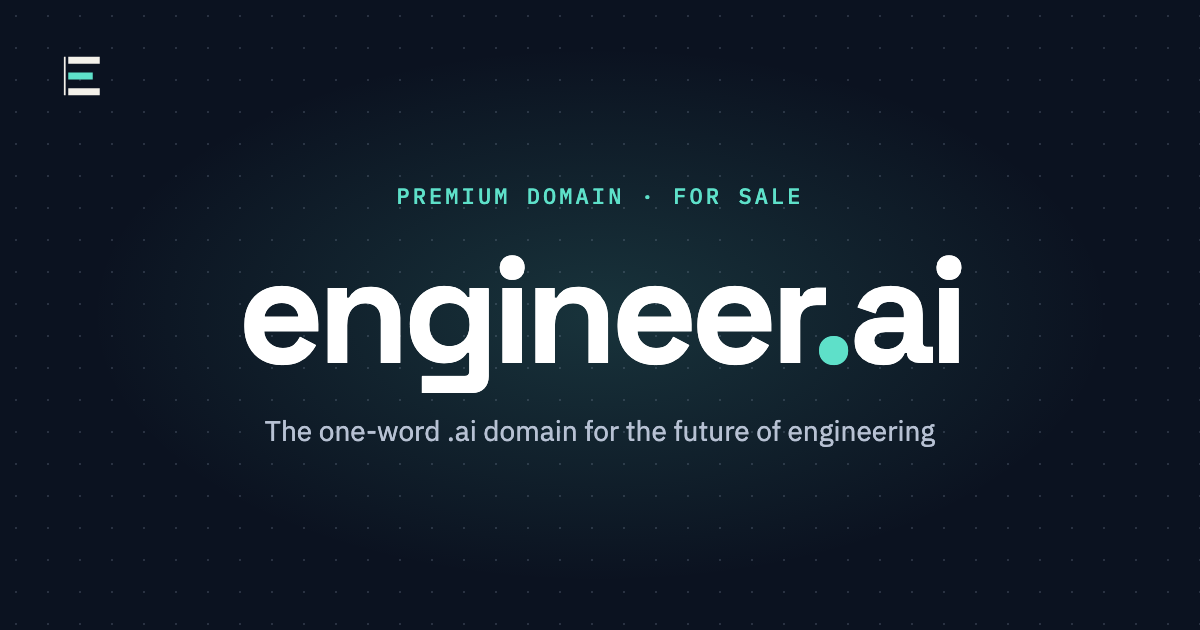
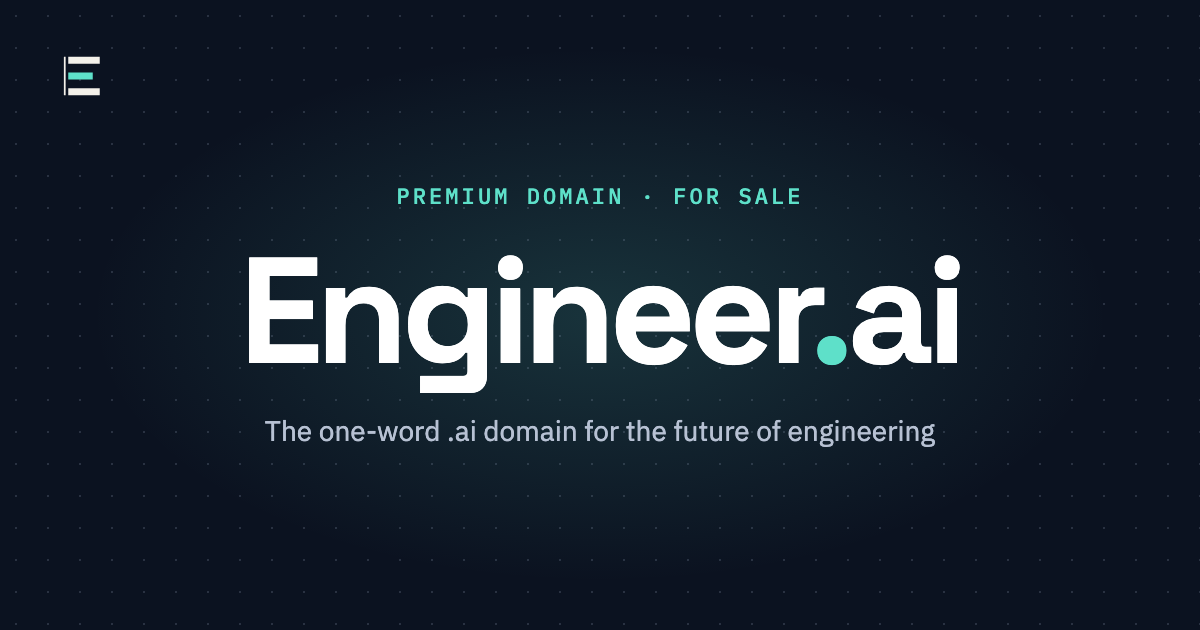
Capitalise the name as Engineer.ai
Applies to all visible text, wordmarks, metadata, structured data,
llms.txt, README and the share image. URLs stay lowercase.

diff --git a/index.html b/index.html
@@ -3,23 +3,23 @@
 <head>
 <meta charset="utf-8">
 <meta name="viewport" content="width=device-width, initial-scale=1">
-<title>engineer.ai is for sale | Premium one-word .ai domain</title>
-<meta name="description" content="engineer.ai is a premium one-word .ai domain for sale. Ideal for AI software engineers, engineering AI, hiring and education. Contact us to make an offer.">
+<title>Engineer.ai is for sale | Premium one-word .ai domain</title>
+<meta name="description" content="Engineer.ai is a premium one-word .ai domain for sale. Ideal for AI software engineers, engineering AI, hiring and education. Contact us to make an offer.">
 <link rel="canonical" href="https://engineer.ai/">
 <meta name="robots" content="index, follow, max-image-preview:large">
 <meta name="theme-color" content="#0B1220">
 
 <meta property="og:type" content="website">
-<meta property="og:site_name" content="engineer.ai">
+<meta property="og:site_name" content="Engineer.ai">
 <meta property="og:url" content="https://engineer.ai/">
-<meta property="og:title" content="engineer.ai is for sale | Premium one-word .ai domain">
+<meta property="og:title" content="Engineer.ai is for sale | Premium one-word .ai domain">
 <meta property="og:description" content="The one-word .ai domain for the future of engineering. Contact us to make an offer.">
 <meta property="og:image" content="https://engineer.ai/og-image.png">
 <meta property="og:image:width" content="1200">
 <meta property="og:image:height" content="630">
-<meta property="og:image:alt" content="engineer.ai, premium domain for sale">
+<meta property="og:image:alt" content="Engineer.ai, premium domain for sale">
 <meta name="twitter:card" content="summary_large_image">
-<meta name="twitter:title" content="engineer.ai is for sale">
+<meta name="twitter:title" content="Engineer.ai is for sale">
 <meta name="twitter:description" content="The one-word .ai domain for the future of engineering. Contact us to make an offer.">
 <meta name="twitter:image" content="https://engineer.ai/og-image.png">
 
@@ -38,8 +38,8 @@
       "@type": "WebSite",
       "@id": "https://engineer.ai/#website",
       "url": "https://engineer.ai/",
-      "name": "engineer.ai",
-      "description": "engineer.ai is a premium one-word .ai domain name for sale.",
+      "name": "Engineer.ai",
+      "description": "Engineer.ai is a premium one-word .ai domain name for sale.",
       "publisher": { "@id": "https://coherence.com/#organization" }
     },
     {
@@ -51,10 +51,10 @@
     {
       "@type": "Product",
       "@id": "https://engineer.ai/#domain",
-      "name": "engineer.ai",
+      "name": "Engineer.ai",
       "category": "Premium domain name",
       "description": "A one-word .ai domain name for sale. Suited to autonomous AI software engineers, AI engineering hiring, engineering education, AI consultancies, DevOps agents, robotics and engineering analytics.",
-      "brand": { "@type": "Brand", "name": "engineer.ai" },
+      "brand": { "@type": "Brand", "name": "Engineer.ai" },
       "offers": {
         "@type": "Offer",
         "url": "https://engineer.ai/#contact",
@@ -65,16 +65,16 @@
     {
       "@type": "FAQPage",
       "mainEntity": [
-        { "@type": "Question", "name": "Is engineer.ai for sale?",
-          "acceptedAnswer": { "@type": "Answer", "text": "Yes. engineer.ai is privately owned and available to purchase today. Email team@coherence.com to make an offer." } },
-        { "@type": "Question", "name": "How much does engineer.ai cost?",
+        { "@type": "Question", "name": "Is Engineer.ai for sale?",
+          "acceptedAnswer": { "@type": "Answer", "text": "Yes. Engineer.ai is privately owned and available to purchase today. Email team@coherence.com to make an offer." } },
+        { "@type": "Question", "name": "How much does Engineer.ai cost?",
           "acceptedAnswer": { "@type": "Answer", "text": "Price is available on request. Email us with your offer or to ask for the current asking price." } },
         { "@type": "Question", "name": "How does the purchase and transfer work?",
-          "acceptedAnswer": { "@type": "Answer", "text": "Once a price is agreed, payment is completed through a secure method and engineer.ai is moved to your registrar account, giving you full control." } },
+          "acceptedAnswer": { "@type": "Answer", "text": "Once a price is agreed, payment is completed through a secure method and Engineer.ai is moved to your registrar account, giving you full control." } },
         { "@type": "Question", "name": "Can I lease or pay in instalments?",
           "acceptedAnswer": { "@type": "Answer", "text": "Contact us by email and we will talk through the payment options available." } },
         { "@type": "Question", "name": "Why is a one-word .ai domain valuable?",
-          "acceptedAnswer": { "@type": "Answer", "text": "One-word domains are scarce, memorable and easy to rank. Combined with the .ai extension, engineer.ai signals instant credibility in the AI category and saves years of brand building." } }
+          "acceptedAnswer": { "@type": "Answer", "text": "One-word domains are scarce, memorable and easy to rank. Combined with the .ai extension, Engineer.ai signals instant credibility in the AI category and saves years of brand building." } }
       ]
     }
   ]
@@ -266,21 +266,21 @@ h1,h2,h3,p{margin:0}
 
 <header class="site-header">
   <div class="wrap">
-    <a class="brand" href="#top" aria-label="engineer.ai home">
+    <a class="brand" href="#top" aria-label="Engineer.ai home">
       <svg width="32" height="32" viewBox="0 0 64 64" aria-hidden="true"><path d="M14 14 H50" stroke="#F4F1EA" stroke-width="8"/><path d="M14 32 H42" stroke="#5EE0C9" stroke-width="8"/><path d="M14 50 H50" stroke="#F4F1EA" stroke-width="8"/><path d="M10 10 V54" stroke="#F4F1EA" stroke-width="2"/></svg>
-      <span class="brand-name">engineer<span class="dot">.</span>ai</span>
+      <span class="brand-name">Engineer<span class="dot">.</span>ai</span>
     </a>
     <nav class="nav" aria-label="Primary">
       <a href="#use-cases">Use cases</a>
       <a class="hide-md" href="#why">Why this domain</a>
       <a href="#faq">FAQ</a>
-      <a class="btn btn-primary btn-sm" href="mailto:team@coherence.com?subject=engineer.ai%20domain%20enquiry">Contact us</a>
+      <a class="btn btn-primary btn-sm" href="mailto:team@coherence.com?subject=Engineer.ai%20domain%20enquiry">Contact us</a>
     </nav>
   </div>
 </header>
 
 <main id="main">
-  <section class="hero grid-drift" aria-label="engineer.ai domain for sale">
+  <section class="hero grid-drift" aria-label="Engineer.ai domain for sale">
     <svg class="hero-bg" viewBox="0 0 1440 812" preserveAspectRatio="xMidYMid slice" aria-hidden="true" focusable="false">
       <defs>
         <radialGradient id="glow" cx="50%" cy="45%" r="55%"><stop offset="0" stop-color="#5EE0C9" stop-opacity=".16"/><stop offset="1" stop-color="#5EE0C9" stop-opacity="0"/></radialGradient>
@@ -310,10 +310,10 @@ h1,h2,h3,p{margin:0}
     </svg>
     <div class="hero-inner">
       <p class="eyebrow">Premium domain &middot; For sale</p>
-      <h1>engineer<span class="dot">.</span>ai</h1>
+      <h1>Engineer<span class="dot">.</span>ai</h1>
       <p class="lede">The one-word .ai domain for the future of engineering. Own the name that defines the category before someone else does.</p>
       <div class="cta-row">
-        <a class="btn btn-primary" href="mailto:team@coherence.com?subject=engineer.ai%20domain%20enquiry">Contact us <svg width="18" height="18" viewBox="0 0 24 24" fill="none" stroke="currentColor" stroke-width="2.2" stroke-linecap="round" stroke-linejoin="round" aria-hidden="true"><path d="M5 12h14M13 6l6 6-6 6"/></svg></a>
+        <a class="btn btn-primary" href="mailto:team@coherence.com?subject=Engineer.ai%20domain%20enquiry">Contact us <svg width="18" height="18" viewBox="0 0 24 24" fill="none" stroke="currentColor" stroke-width="2.2" stroke-linecap="round" stroke-linejoin="round" aria-hidden="true"><path d="M5 12h14M13 6l6 6-6 6"/></svg></a>
         <a class="btn btn-ghost" href="#use-cases">Explore use cases</a>
       </div>
       <div class="chips">
@@ -329,7 +329,7 @@ h1,h2,h3,p{margin:0}
       <div class="section-head">
         <p class="eyebrow">Why this domain</p>
         <h2 id="why-h">A one-word .ai domain that says exactly what you do</h2>
-        <p>Engineer is one of the most searched job titles and product categories in technology. engineer.ai is the shortest, most literal address for anything built at the intersection of engineering and artificial intelligence.</p>
+        <p>Engineer is one of the most searched job titles and product categories in technology. Engineer.ai is the shortest, most literal address for anything built at the intersection of engineering and artificial intelligence.</p>
       </div>
       <div class="grid grid-4">
         <div class="card"><span class="num">01</span><h3>Exact-match keyword</h3><p>The domain is the search term. Rank for "AI engineer", "engineering AI" and hundreds of related queries with a name people already type.</p></div>
@@ -344,7 +344,7 @@ h1,h2,h3,p{margin:0}
     <div class="wrap">
       <div class="section-head">
         <p class="eyebrow">Use cases</p>
-        <h2 id="uc-h">What could engineer.ai become?</h2>
+        <h2 id="uc-h">What could Engineer.ai become?</h2>
         <p>Engineering is the broadest category in technology, and AI is reshaping every discipline inside it. Here are the businesses this domain was made for.</p>
       </div>
       <div class="grid grid-3">
@@ -425,12 +425,12 @@ h1,h2,h3,p{margin:0}
     <div class="wrap">
       <div class="section-head">
         <p class="eyebrow">How to buy</p>
-        <h2 id="how-h">How to buy engineer.ai</h2>
+        <h2 id="how-h">How to buy Engineer.ai</h2>
       </div>
       <div class="grid grid-3">
-        <div class="card"><span class="step">1</span><h3>Email us</h3><p>Send your offer or questions to our team. We reply to every serious enquiry.</p><a class="link" href="mailto:team@coherence.com?subject=engineer.ai%20domain%20enquiry">team@coherence.com &rarr;</a></div>
+        <div class="card"><span class="step">1</span><h3>Email us</h3><p>Send your offer or questions to our team. We reply to every serious enquiry.</p><a class="link" href="mailto:team@coherence.com?subject=Engineer.ai%20domain%20enquiry">team@coherence.com &rarr;</a></div>
         <div class="card"><span class="step">2</span><h3>Agree a price</h3><p>We discuss your offer and agree terms that work for both sides.</p></div>
-        <div class="card"><span class="step">3</span><h3>Secure payment and transfer</h3><p>Payment is completed through a secure method and engineer.ai is moved to your registrar account.</p></div>
+        <div class="card"><span class="step">3</span><h3>Secure payment and transfer</h3><p>Payment is completed through a secure method and Engineer.ai is moved to your registrar account.</p></div>
       </div>
     </div>
   </section>
@@ -442,11 +442,11 @@ h1,h2,h3,p{margin:0}
         <h2 id="faq-h">Questions buyers ask</h2>
       </div>
       <div class="faq">
-        <div class="faq-item"><h3>Is engineer.ai for sale?</h3><p>Yes. engineer.ai is privately owned and available to purchase today. Email team@coherence.com to make an offer.</p></div>
-        <div class="faq-item"><h3>How much does engineer.ai cost?</h3><p>Price is available on request. Email us with your offer or to ask for the current asking price.</p></div>
-        <div class="faq-item"><h3>How does the purchase and transfer work?</h3><p>Once a price is agreed, payment is completed through a secure method and engineer.ai is moved to your registrar account, giving you full control.</p></div>
+        <div class="faq-item"><h3>Is Engineer.ai for sale?</h3><p>Yes. Engineer.ai is privately owned and available to purchase today. Email team@coherence.com to make an offer.</p></div>
+        <div class="faq-item"><h3>How much does Engineer.ai cost?</h3><p>Price is available on request. Email us with your offer or to ask for the current asking price.</p></div>
+        <div class="faq-item"><h3>How does the purchase and transfer work?</h3><p>Once a price is agreed, payment is completed through a secure method and Engineer.ai is moved to your registrar account, giving you full control.</p></div>
         <div class="faq-item"><h3>Can I lease or pay in instalments?</h3><p>Contact us by email and we will talk through the payment options available.</p></div>
-        <div class="faq-item"><h3>Why is a one-word .ai domain valuable?</h3><p>One-word domains are scarce, memorable and easy to rank. Combined with the .ai extension, engineer.ai signals instant credibility in the AI category and saves years of brand building.</p></div>
+        <div class="faq-item"><h3>Why is a one-word .ai domain valuable?</h3><p>One-word domains are scarce, memorable and easy to rank. Combined with the .ai extension, Engineer.ai signals instant credibility in the AI category and saves years of brand building.</p></div>
       </div>
     </div>
   </section>
@@ -454,10 +454,10 @@ h1,h2,h3,p{margin:0}
   <section id="contact" class="closing" aria-labelledby="cta-h">
     <div class="wrap">
       <div class="closing-box grid-drift">
-        <h2 id="cta-h">Ready to own engineer<span class="dot">.</span>ai?</h2>
+        <h2 id="cta-h">Ready to own Engineer<span class="dot">.</span>ai?</h2>
         <p>Email us to make an offer or ask about price. One-word .ai domains do not come around twice.</p>
         <div class="cta-row">
-          <a class="btn btn-primary" href="mailto:team@coherence.com?subject=engineer.ai%20domain%20enquiry">Contact us</a>
+          <a class="btn btn-primary" href="mailto:team@coherence.com?subject=Engineer.ai%20domain%20enquiry">Contact us</a>
         </div>
       </div>
     </div>
@@ -468,9 +468,9 @@ h1,h2,h3,p{margin:0}
   <div class="wrap">
     <div class="footer-top">
       <div class="footer-brand">
-        <a class="brand" href="#top" aria-label="engineer.ai home">
+        <a class="brand" href="#top" aria-label="Engineer.ai home">
           <svg width="32" height="32" viewBox="0 0 64 64" aria-hidden="true"><path d="M14 14 H50" stroke="#F4F1EA" stroke-width="8"/><path d="M14 32 H42" stroke="#5EE0C9" stroke-width="8"/><path d="M14 50 H50" stroke="#F4F1EA" stroke-width="8"/><path d="M10 10 V54" stroke="#F4F1EA" stroke-width="2"/></svg>
-          <span class="brand-name">engineer<span class="dot">.</span>ai</span>
+          <span class="brand-name">Engineer<span class="dot">.</span>ai</span>
         </a>
         <p>The one-word .ai domain for the future of engineering.</p>
       </div>
@@ -487,13 +487,13 @@ h1,h2,h3,p{margin:0}
         <a class="credit credit-q" href="https://qquantum.ai" target="_blank" rel="noopener" title="QQuantum.ai — AI systems engineering studio, Barcelona">
           <span class="credit-label" aria-hidden="true">Designed &amp; built by</span>
           <img src="assets/qquantum-logo-on-dark.svg" alt="QQuantum.ai" width="67" height="12" loading="lazy">
-          <span class="sr-only">engineer.ai was designed and built by QQuantum.ai, an AI systems engineering studio in Barcelona that builds production AI agents and custom AI systems.</span>
+          <span class="sr-only">Engineer.ai was designed and built by QQuantum.ai, an AI systems engineering studio in Barcelona that builds production AI agents and custom AI systems.</span>
         </a>
         <span class="credit-divider" aria-hidden="true"></span>
         <a class="credit credit-c" href="https://coherence.com" target="_blank" rel="noopener" title="Coherence — ethical, human-centred AI across sound, education and consciousness">
           <span class="credit-label" aria-hidden="true">Part of</span>
           <img src="assets/coherence-logo-on-dark.svg" alt="Coherence" width="120" height="24" loading="lazy">
-          <span class="sr-only">engineer.ai is owned by Coherence, the Gibraltar-based company building ethical, human-centred AI across sound, education and consciousness.</span>
+          <span class="sr-only">Engineer.ai is owned by Coherence, the Gibraltar-based company building ethical, human-centred AI across sound, education and consciousness.</span>
         </a>
       </div>
     </div>

diff --git a/README.md b/README.md
@@ -1,6 +1,6 @@
-# engineer.ai
+# Engineer.ai
 
-Static "domain for sale" landing page for engineer.ai. Plain HTML and CSS, no build step, no JavaScript.
+Static "domain for sale" landing page for Engineer.ai. Plain HTML and CSS, no build step, no JavaScript.
 
 ## Files
 
@@ -18,7 +18,7 @@ Static "domain for sale" landing page for engineer.ai. Plain HTML and CSS, no bu
 
 ## Hosting
 
-Upload the folder as-is to any static host (GitHub Pages, Cloudflare Pages, Netlify, S3). For GitHub Pages, enable Pages on the `main` branch root and point the engineer.ai DNS at it.
+Upload the folder as-is to any static host (GitHub Pages, Cloudflare Pages, Netlify, S3). For GitHub Pages, enable Pages on the `main` branch root and point the Engineer.ai DNS at it.
 
 ## Preview locally
 
